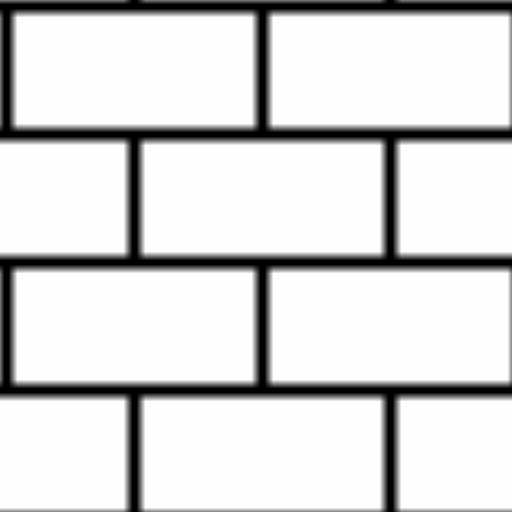
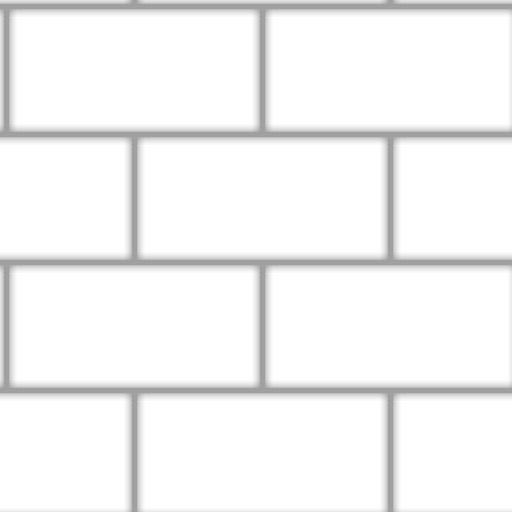
Improved bump and specular mapping of buildings. Looks a bit like wood, maybe use bricks as natural tesselation breaks in future?

Changed region(s): [[0.0, 0.0, 1.0, 1.0]]

diff --git a/media/js/model_uq.js b/media/js/model_uq.js
@@ -42,7 +42,7 @@ function animate() {
  */
 function load_buildings () {
     // Load textures.
-    var spec_map = THREE.ImageUtils.loadTexture('media/images/sandstone_spec.jpg'),
+    var spec_map = THREE.ImageUtils.loadTexture('media/images/big_sandstone.jpg'),
         bump_map = THREE.ImageUtils.loadTexture('media/images/sandstone_bump.jpg');
 
     spec_map.wrapS = THREE.RepeatWrapping;
@@ -52,12 +52,12 @@ function load_buildings () {
 
     buildings = new THREE.Group(); // Make a group that contains all buildings.
     var building_material = new THREE.MeshPhongMaterial({
-        color: 0xB59524,
+        color: 0xFFAA76,
         shininess: 50,
-        specular: 0xFFEE77,
+        //specular: 0xFFEE77,
         map: spec_map,
         bumpMap: bump_map,
-        bumpScale: 0.5
+        bumpScale: 0.05
     });
 
     // Iterate building data (defined in data.js).
@@ -97,20 +97,33 @@ function load_buildings () {
     return buildings
 }
 
+
 /**
  * Function to crete, (texture?) and position the world plain.
  * @return a mesh representing
  */
 function load_plane() {
+    // Bottom plane.
+    var plane_geometry = new THREE.PlaneBufferGeometry(2000, 2000);
+    var plane_material = new THREE.MeshPhongMaterial({color: 0x5B9D3A, shininess: 5, specular: 0x004400});
+    var plane = new THREE.Mesh(plane_geometry, plane_material);
+    plane.rotateX(radians(-90)); // Rotate to flat.
+    plane.receiveShadow = true;
 
+    return plane;
 }
+
 
 /**
  * Function to create the sun geometry, and contains a light.
  * @return
  */
 function load_sun() {
-
+    sun = new THREE.Mesh(
+        new THREE.SphereGeometry(10, 10, 10),
+        new THREE.MeshPhongMaterial({color: 0xFFFF66, emissive: 0xFFFF88})
+    );
+    return sun;
 }
 
 
@@ -132,21 +145,14 @@ function init() {
     scene.fog = new THREE.FogExp2(0x0091D8, 0.0002);
 
     // WORLD:
+    // Load geometry, using loading functions for neatness.
+    var plane = load_plane();
+    buildings = load_buildings(); // Load all building into global variable.
+    sun = load_sun();
 
-    // Bottom plane.
-    var plane_geometry = new THREE.PlaneBufferGeometry(2000, 2000);
-    var plane_material = new THREE.MeshPhongMaterial({color: 0x5B9D3A, shininess: 5, specular: 0x004400});
-    var plane = new THREE.Mesh(plane_geometry, plane_material);
-    plane.rotateX(radians(-90)); // Rotate to flat.
-    plane.receiveShadow = true;
-    scene.add(plane); // Add it to the global scene.
-
-    buildings = load_buildings();
+    // Add all loaded geometry to the scene.
+    scene.add(plane);
     scene.add(buildings);
-
-    // Create a yellow ball as the 'Sun'
-    sun = new THREE.Mesh(new THREE.SphereGeometry(10, 10, 10),
-                         new THREE.MeshPhongMaterial({color: 0xFFFF66, emissive: 0xFFFF88}));
     scene.add(sun);
 
     // LIGHTS:
